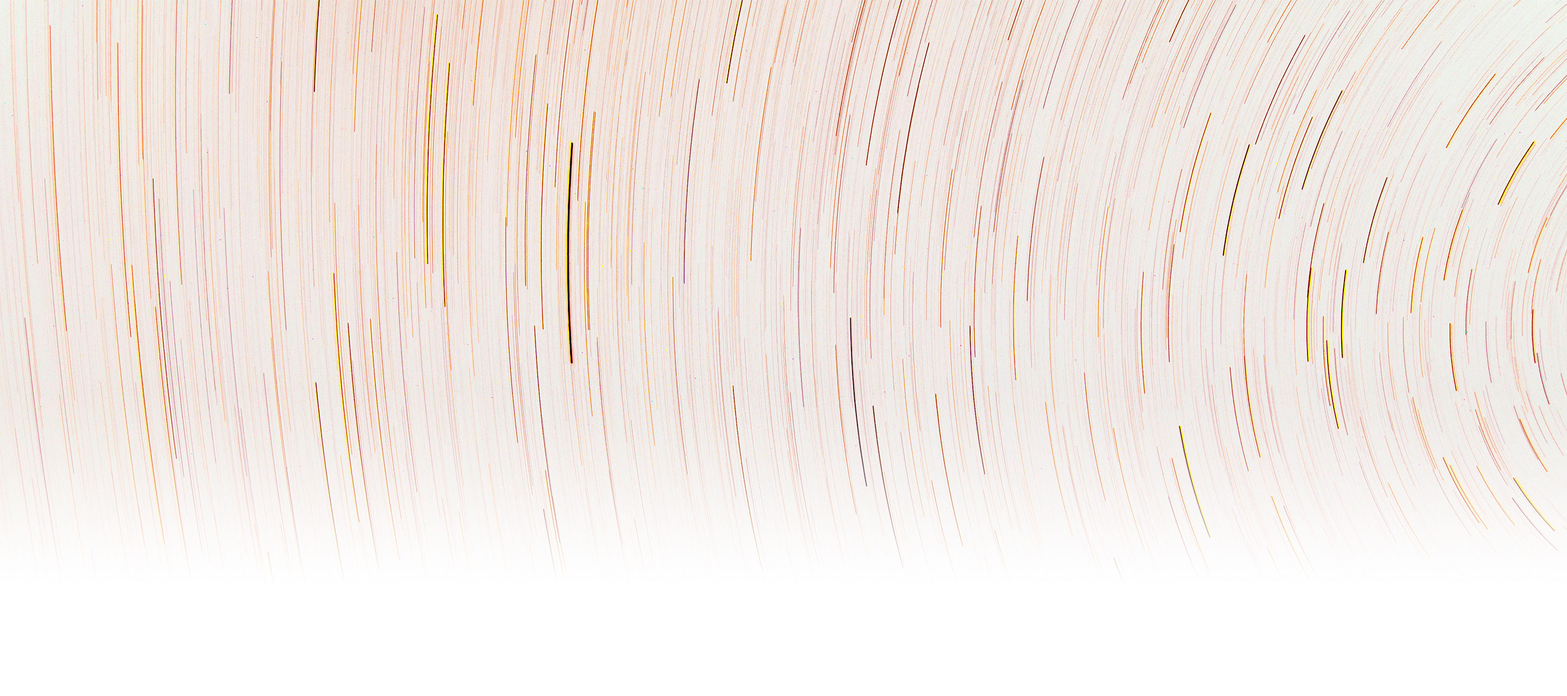
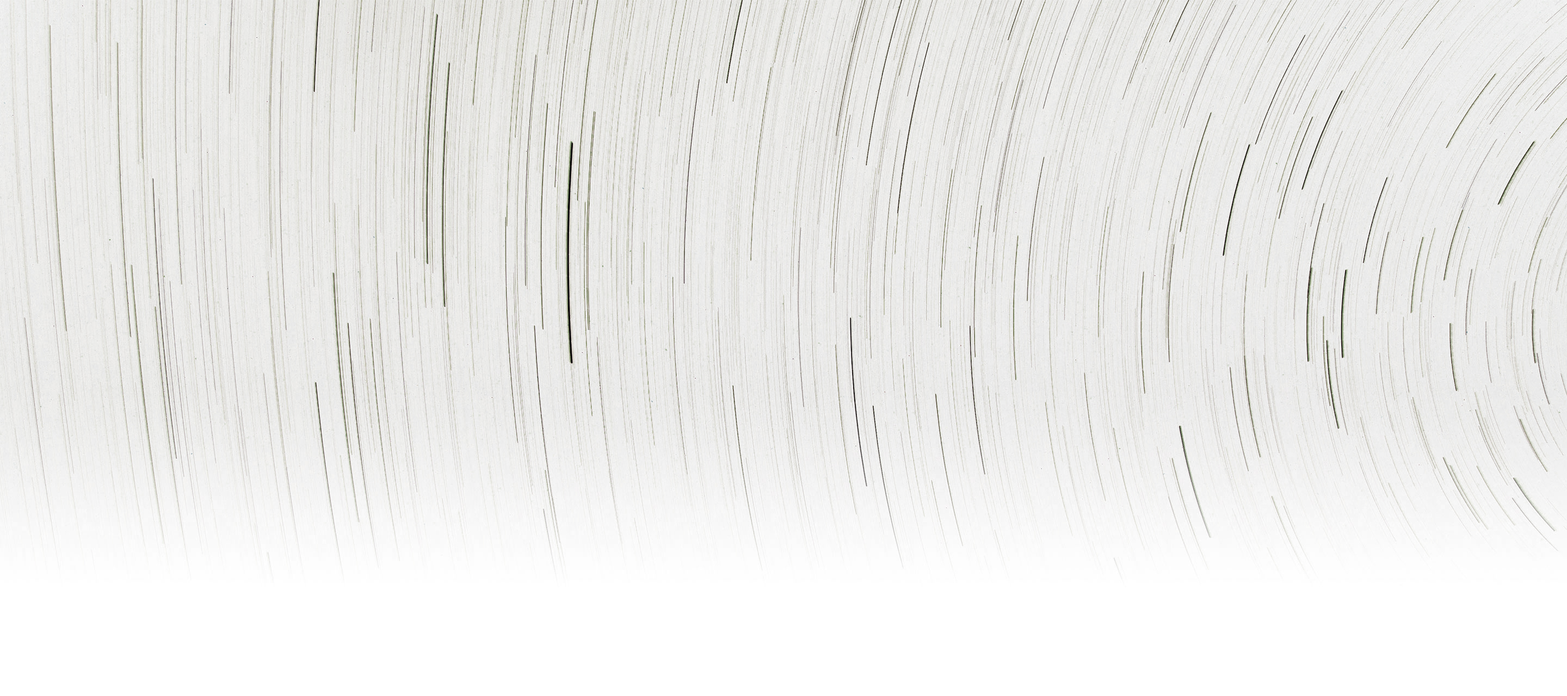
Actualizar imágenes de fondo en modo claro y oscuro e iconos

diff --git a/src/components/IconPaths.ts b/src/components/IconPaths.ts
@@ -19,10 +19,9 @@ export const iconPaths = {
   'arrow-left': `<path fill="none" stroke-linecap="round" stroke-linejoin="round" stroke-width="16" d="M216 128H40m72-72-72 72 72 72"/>`,
   code: `<path fill="none" stroke-linecap="round" stroke-linejoin="round" stroke-width="16" d="m64 88-48 40 48 40m128-80 48 40-48 40M160 40 96 216"/>`,
   'microphone-stage': `<circle cx="168" cy="88" r="64" fill="none" stroke-linecap="round" stroke-linejoin="round" stroke-width="16"/><path fill="none" stroke-linecap="round" stroke-linejoin="round" stroke-width="16" d="m213.3 133.3-90.6-90.6M100 156l-12 12m16.8-70.1L28.1 202.5a7.9 7.9 0 0 0 .8 10.4l14.2 14.2a7.9 7.9 0 0 0 10.4.8l104.6-76.7"/>`,
-  guitar: `<svg xmlns="http://www.w3.org/2000/svg" viewBox="0 0 256 256"><rect width="256" height="256" fill="none"/><line x1="208" y1="16" x2="240" y2="48" fill="none" stroke="currentColor" stroke-linecap="round" stroke-linejoin="round" stroke-width="16"/><line x1="176" y1="56" x2="200" y2="80" fill="none" stroke="currentColor" stroke-linecap="round" stroke-linejoin="round" stroke-width="16"/><path d="M60.07,112a16.23,16.23,0,0,0,14.72-10A34.21,34.21,0,0,1,82.4,90.4c17.23-17.23,49.82-12.57,72.8,10.4s27.63,55.57,10.4,72.8a34.21,34.21,0,0,1-11.66,7.61,16.23,16.23,0,0,0-10,14.72C143.56,208,139.39,219,131.2,227.2,110,248.4,69.88,242.67,41.6,214.4S7.6,146,28.8,124.8C37,116.61,48,112.44,60.07,112Z" fill="none" stroke="currentColor" stroke-linecap="round" stroke-linejoin="round" stroke-width="16"/><line x1="56" y1="168" x2="88" y2="200" fill="none" stroke="currentColor" stroke-linecap="round" stroke-linejoin="round" stroke-width="16"/><circle cx="112" cy="144" r="24" fill="none" stroke="currentColor" stroke-linecap="round" stroke-linejoin="round" stroke-width="16"/><line x1="112" y1="120" x2="212" y2="20" fill="none" stroke="currentColor" stroke-linecap="round" stroke-linejoin="round" stroke-width="16"/><line x1="136" y1="144" x2="236" y2="44" fill="none" stroke="currentColor" stroke-linecap="round" stroke-linejoin="round" stroke-width="16"/></svg>`,
-  'pencil-line': `<path fill="none" stroke-linecap="round" stroke-linejoin="round" stroke-width="16" d="M96 216H48a8 8 0 0 1-8-8v-44.7a7.9 7.9 0 0 1 2.3-5.6l120-120a8 8 0 0 1 11.4 0l44.6 44.6a8 8 0 0 1 0 11.4Zm40-152 56 56"/><path fill="none" stroke-linecap="round" stroke-linejoin="round" stroke-width="16" d="M216 216H96l-55.5-55.5M164 92l-96 96"/>`,
+  guitar: `<path d="M249.66,46.34l-40-40a8,8,0,0,0-11.31,11.32L200.69,20,140.52,80.16C117.73,68.3,92.21,69.29,76.75,84.74a42.27,42.27,0,0,0-9.39,14.37A8.24,8.24,0,0,1,59.81,104c-14.59.49-27.26,5.72-36.65,15.11C11.08,131.22,6,148.6,8.74,168.07,11.4,186.7,21.07,205.15,36,220s33.34,24.56,52,27.22A71.13,71.13,0,0,0,98.1,248c15.32,0,28.83-5.23,38.76-15.16,9.39-9.39,14.62-22.06,15.11-36.65a8.24,8.24,0,0,1,4.92-7.55,42.12,42.12,0,0,0,14.37-9.39c15.45-15.46,16.44-41,4.58-63.77L236,55.31l2.34,2.34a8,8,0,1,0,11.32-11.31ZM160,167.93a26.12,26.12,0,0,1-8.95,5.83,24.24,24.24,0,0,0-15,21.89c-.36,10.46-4,19.41-10.43,25.88-8.44,8.43-21,11.95-35.36,9.89C75,229.25,59.73,221.19,47.27,208.73S26.75,181,24.58,165.81c-2-14.37,1.46-26.92,9.89-35.36C40.94,124,49.89,120.37,60.35,120h0a24.22,24.22,0,0,0,21.89-15,26.12,26.12,0,0,1,5.83-9c5.49-5.49,13-8.13,21.38-8.13a49.38,49.38,0,0,1,19.13,4.19L108.5,112.19a32,32,0,1,0,35.31,35.31l20.08-20.08C170.41,142.71,169.47,158.41,160,167.93Zm-10.4-61.48a72.9,72.9,0,0,1,5.93,6.75l-15.42,15.42a32.22,32.22,0,0,0-12.68-12.68l15.42-15.43A73,73,0,0,1,149.55,106.45ZM112,128a16,16,0,0,1,16,16h0a16,16,0,1,1-16-16Zm48.85-32.85a86.94,86.94,0,0,0-6.68-6L176,67.31,188.69,80l-21.83,21.82A86.94,86.94,0,0,0,160.86,95.14ZM200,68.68,187.32,56,212,31.31,224.69,44ZM93.66,194.33a8,8,0,0,1-11.31,11.32l-32-32a8,8,0,0,1,11.32-11.31Z"></path>`,
   'rocket-launch': `<path fill="none" stroke-linecap="round" stroke-linejoin="round" stroke-width="16" d="M94.1 184.6c-11.4 33.9-56.6 33.9-56.6 33.9s0-45.2 33.9-56.6m124.5-56.5L128 173.3 82.7 128l67.9-67.9C176.3 34.4 202 34.7 213 36.3a7.8 7.8 0 0 1 6.7 6.7c1.6 11 1.9 36.7-23.8 62.4Z"/><path fill="none" stroke-linecap="round" stroke-linejoin="round" stroke-width="16" d="M184.6 116.7v64.6a8 8 0 0 1-2.4 5.6l-32.3 32.4a8 8 0 0 1-13.5-4.1l-8.4-41.9m11.3-101.9H74.7a8 8 0 0 0-5.6 2.4l-32.4 32.3a8 8 0 0 0 4.1 13.5l41.9 8.4"/>`,
-  bike: `<svg xmlns="http://www.w3.org/2000/svg" viewBox="0 0 256 256"><rect width="256" height="256" fill="none"/><path d="M208,80a16,16,0,0,0-16-16H152l56,96" fill="none" stroke="currentColor" stroke-linecap="round" stroke-linejoin="round" stroke-width="16"/><circle cx="208" cy="160" r="40" fill="none" stroke="currentColor" stroke-linecap="round" stroke-linejoin="round" stroke-width="16"/><circle cx="48" cy="160" r="40" fill="none" stroke="currentColor" stroke-linecap="round" stroke-linejoin="round" stroke-width="16"/><polyline points="48 64 76 64 132 160" fill="none" stroke="currentColor" stroke-linecap="round" stroke-linejoin="round" stroke-width="16"/><polyline points="170.67 96 94.67 96 48 160" fill="none" stroke="currentColor" stroke-linecap="round" stroke-linejoin="round" stroke-width="16"/></svg>`,
+  bike: `<path d="M208,112a47.81,47.81,0,0,0-16.93,3.09L165.93,72H192a8,8,0,0,1,8,8,8,8,0,0,0,16,0,24,24,0,0,0-24-24H152a8,8,0,0,0-6.91,12l11.65,20H99.26L82.91,60A8,8,0,0,0,76,56H48a8,8,0,0,0,0,16H71.41L85.12,95.51,69.41,117.06a48.13,48.13,0,1,0,12.92,9.44l11.59-15.9L125.09,164A8,8,0,1,0,138.91,156l-30.32-52h57.48l11.19,19.17A48,48,0,1,0,208,112ZM80,160a32,32,0,1,1-20.21-29.74l-18.25,25a8,8,0,1,0,12.92,9.42l18.25-25A31.88,31.88,0,0,1,80,160Zm128,32a32,32,0,0,1-22.51-54.72L201.09,164A8,8,0,1,0,214.91,156L199.3,129.21A32,32,0,1,1,208,192Z"></path>`,
   list: `<path stroke-linecap="round" stroke-linejoin="round" stroke-width="16" d="M40 128h176M40 64h176M40 192h176"/>`,
   heart: `<path fill="none" stroke-linecap="round" stroke-linejoin="round" stroke-width="16" d="M128 216S28 160 28 92a52 52 0 0 1 100-20h0a52 52 0 0 1 100 20c0 68-100 124-100 124Z"/>`,
   'moon-stars': `<path fill="none" stroke-linecap="round" stroke-linejoin="round" stroke-width="16" d="M216 112V64m24 24h-48m-24-64v32m16-16h-32m65 113A92 92 0 0 1 103 39h0a92 92 0 1 0 114 114Z"/>`,
